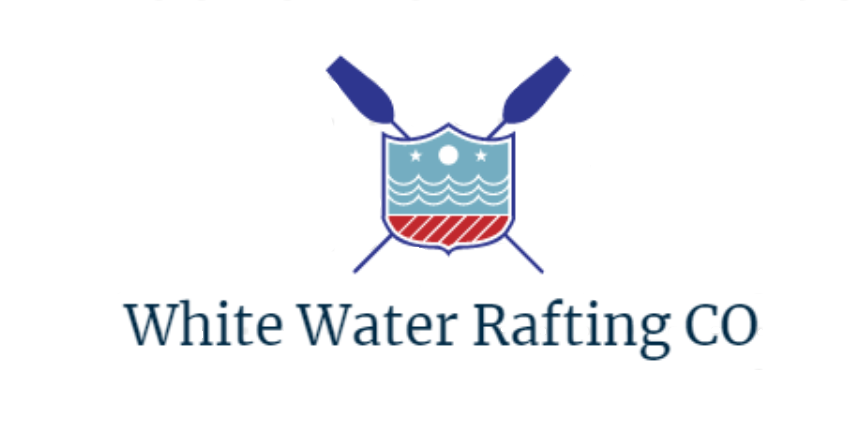
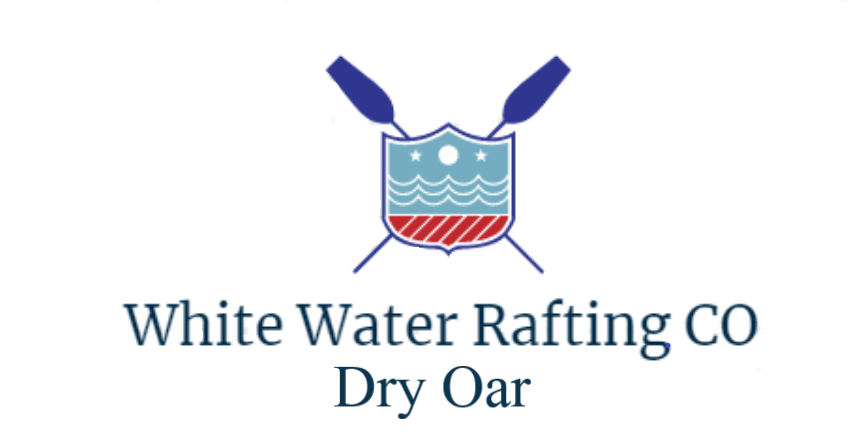
addpageindex

Changed region(s): [[0.3967, 0.8235, 0.6408, 0.9412]]

diff --git a/wwr/index.html b/wwr/index.html
@@ -1,0 +1,74 @@
+<!DOCTYPE html>
+<html lang="en">
+<head>
+    <meta charset="UTF-8">
+    <meta http-equiv="X-UA-Compatible" content="IE=edge">
+    <meta name="viewport" content="width=device-width, initial-scale=1.0">
+    <title>Whitewahter Rafting Co| Home </title>
+</head>
+<body>
+    <header>
+        <a id="logo_link" href="index.html">
+            <img class="logo" src="images/logo.png" alt="dry oar logo">
+        </a>
+            <nav>
+                <a href="index.html">Home</a>
+                <a href="#">Page 2</a>
+                <a href="site-plan-rafting.html">Site Plan</a>
+                <a href="contactus.html">Contact Us</a>
+            </nav>
+
+    </header>
+    <div id="hero">
+        <div id="hero-box">
+            <img id="hero-img" src="images/group-rafting.jpg" alt="People enjoying white water rafting">
+        </div>
+        <section id="hero-msg">
+            <h1 class="home-title">Have An Adventure</h1>
+            <h4>Make Memories with Dry Oar </h4>
+            <div class='button-box'>
+                <a class='book' href="contactus.html">Book Now</a>
+            </div>
+        </section>
+    </div>
+    <main class="home-grid">
+        <section class="rivers-card">
+            <img class="card-img" src="images/river.jpg" alt="river in forest">
+            <img class="icon" src="images/iconriver.png" alt="river icon">
+            <h2>Rivers</h2>
+        </section>
+        <section class="camping-card">
+            <img class="card-img" src="images/camping.jpg" alt="tent in mountains">
+            <img class="icon" src="images/iconfire.png" alt="fire icon">
+            <h2>Camping</h2>
+        </section>
+        <section class="rapids-card">
+            <img class="card-img" src="images/boat2.jpg" alt="rafting boat">
+            <img class="icon" src="images/oars.png" alt="oars icon">
+            <h2>Rapids</h2>
+        </section>
+         <img class="mountains" src="images/montains.jpeg" alt="Misty mountains">
+         <section class="msg">
+        <h2>More Than Just The Thrill</h2>
+        <p>Enjoy the breathtaking scenery. From valleys, meadows, canyons, and high peaks; it's way more than just the rapids. It's a great way to get away from it all and relax amongst all the beauty of the great outdoors. </p>
+        <a class='join' href="rivers.html">Join Us</a>
+    </section>
+    </main>
+   <footer>
+    <p>Dry Oar &copy; 20XX - Your First and Last Name Here</p>
+    <p><a href="site-plan-rafting.html">Site Plan</a></p>
+    <p><a href="contactus.html">Contact Us</a></p>
+    <div class="social">
+        <a href="https://facebook.com">
+            <img src="images/Facebookicon.png" alt="fb icon">
+        </a>
+        <a href="https://twitter.com">
+            <img src="images/twittericon.jpg" alt="twitter icon">
+        </a>
+        <a href="https://instagram.com">
+            <img src="images/instagramicon.png" alt="instagram icon">
+        </a>
+    </div>
+   </footer>
+</body>
+</html>

diff --git a/byuinformacion/example2.html b/byuinformacion/example2.html
@@ -1,0 +1,33 @@
+
+<section>
+    <h1>WWF</h1>
+    <p>The World Wide Fund for Nature (WWF) is an international organization working on issues regarding the conservation, research and restoration of the environment, formerly named the World Wildlife Fund. WWF was founded in 1961.</p>
+    </section>
+    
+    <section>
+    <h1>WWF's Panda symbol</h1>
+    <p>The Panda has become the symbol of WWF. The well-known panda logo of WWF originated from a panda named Chi Chi that was transferred from the Beijing Zoo to the London Zoo in the same year of the establishment of WWF.</p>
+    </section>
+
+    <article class="all-browsers">
+        <h1>Most Popular Browsers</h1>
+        <article class="browser">
+          <h2>Google Chrome</h2>
+          <p>Google Chrome is a web browser developed by Google, released in 2008. Chrome is the world's most popular web browser today!</p>
+        </article>
+        <article class="browser">
+          <h2>Mozilla Firefox</h2>
+          <p>Mozilla Firefox is an open-source web browser developed by Mozilla. Firefox has been the second most popular web browser since January, 2018.</p>
+        </article>
+        <article class="browser">
+          <h2>Microsoft Edge</h2>
+          <p>Microsoft Edge is a web browser developed by Microsoft, released in 2015. Microsoft Edge replaced Internet Explorer.</p>
+        </article>
+      </article>
+      
+      <p>My family and I visited The Epcot center this summer. The weather was nice, and Epcot was amazing! I had a great summer together with my family!</p>
+
+      <aside>
+      <h4>Epcot Center</h4>
+      <p>Epcot is a theme park at Walt Disney World Resort featuring exciting attractions, international pavilions, award-winning fireworks and seasonal special events.</p>
+      </aside>

diff --git a/byuinformacion/troubleshooting.html b/byuinformacion/troubleshooting.html
@@ -1,0 +1,40 @@
+<!doctype html>
+
+<html lang="en">
+
+<head>
+    <meta charset="utf-8">
+    <title>Whitewater rafting vacation | Dry Oar Boating | Home</title>
+    
+</head>
+
+<body>
+   <header>
+        <img src="http://brothert.net/dryoar/images/dryoarlogo.png" alt="Dry Oar Logo">
+        <nav>
+          <ul>
+           <h1>Dry Oar</h1>
+            <li>Home</li>
+            <li>FAQ</li>
+            <li>Rates/Dates</li>
+            <li>Contact Us</li>
+           </ul>
+       </nav>
+    </header>
+       <main>
+           <img src="http://brothert.net/dryoar/images/river-wide.JPG" alt="wide shot of the salmon river">
+<section>
+        <div><h2>We run Rivers to relax.
+        <p>We believe that there is nothing like a river trip for <em>relaxing</em>. That is why we subscribe to the dry oar philosophy of boating. Keeping your oars dry for us means taking time to look around and notice the <strong>beauty</strong> that surrounds the rivers we love.</p></h2>
+    </div>
+    <img scr="http://brothert.net/dryoar/images/river-evening.jpg" alt="peaceful evening shot of a river">
+           </section>
+        
+    </main>
+        <footer>
+            &copy; 2017 Dry Oar  Bro Thompson
+        </footer>
+   
+</body>
+
+</html>

diff --git a/wwr/site-plan-rafting.html b/wwr/site-plan-rafting.html
@@ -10,7 +10,7 @@
 
 <body>
   <header>
-    <h1>[White Water Rafting Colorado] Site Plan</h1>
+    <h1>[Dry Oar] Site Plan</h1>
     <h2>[Karen Gutierrez ]</h2>
     <h2>WDD 130-[01]</h2>
     <!-- In the header above, add the name of your site, your name and class number. For example if you are in section 3 you would put WDD 130-03 -->
@@ -35,7 +35,7 @@
     <h2>Branding</h2>
     <h3>Website Logo</h3>
     <!-- Replace this with some sort of logo for your site.  A logo can be as simple as the name of your site in a nice font :) -->
-    <img src="images/whitewater.png" alt="Logo image" />
+    <img src="images/logo.png" alt="Logo image" />
     <hr />
     <h2>Style Guide</h2>
 

diff --git a/byuinformacion/styles/styless2.css b/byuinformacion/styles/styless2.css
@@ -1,0 +1,20 @@
+
+.all-browsers {
+    margin: 0;
+    padding: 5px;
+    background-color: lightgray;
+  }
+  
+  .all-browsers > h1, .browser {
+    margin: 10px;
+    padding: 5px;
+  }
+  
+  .browser {
+    background: white;
+  }
+  
+  .browser > h2, p {
+    margin: 4px;
+    font-size: 90%;
+  }
